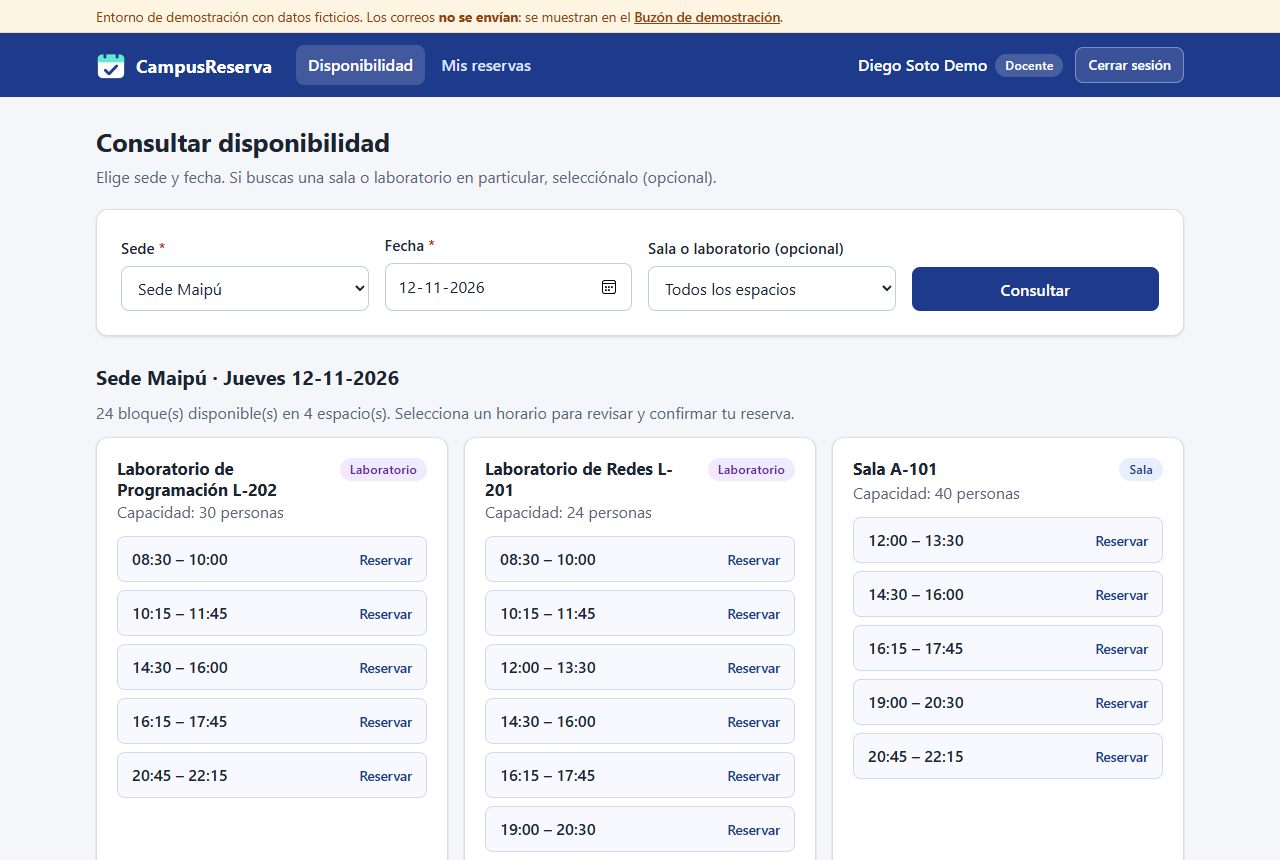
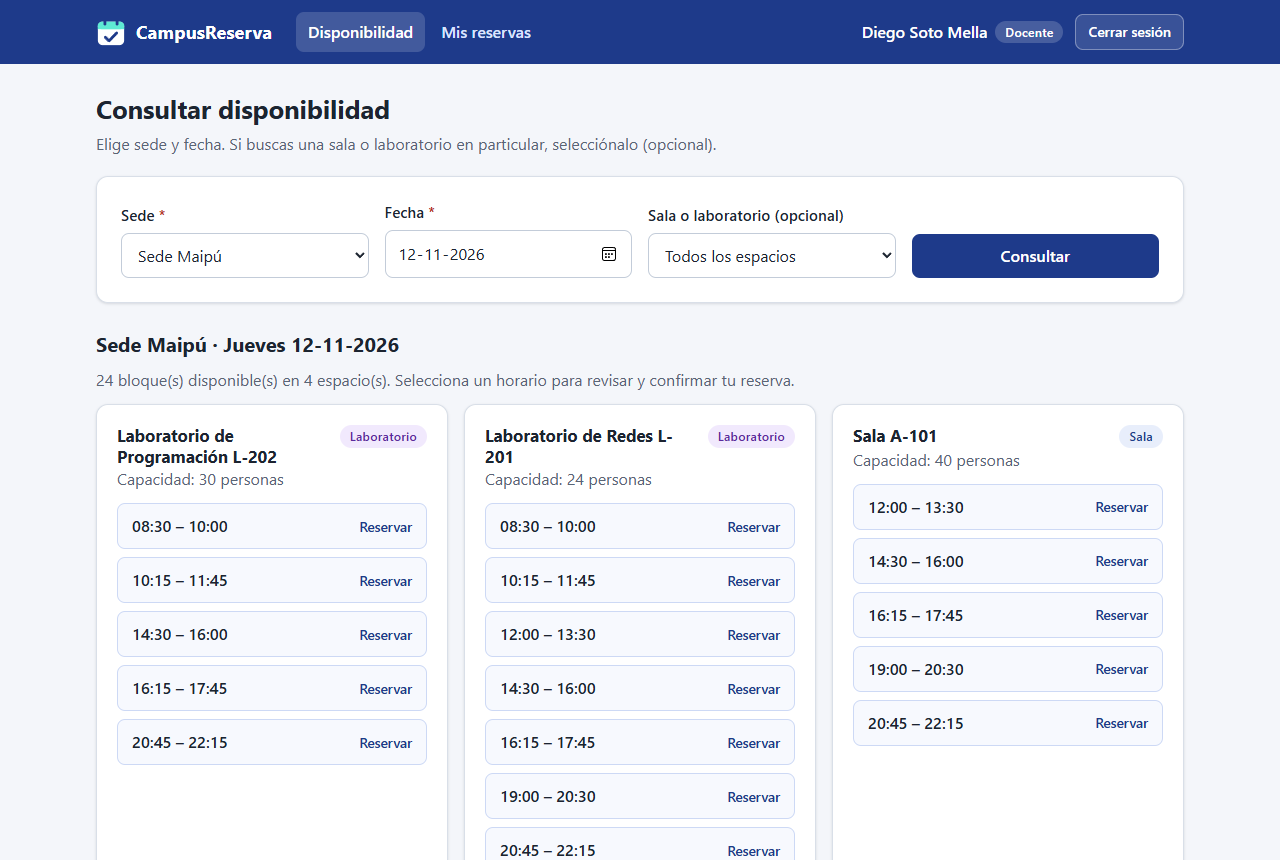
docs: tareas de usuario verificadas con las pruebas automatizadas y evidencia final sobre Render

diff --git a/docs/plan-pruebas.md b/docs/plan-pruebas.md
@@ -9,8 +9,8 @@ Verificar que los requerimientos RF-01 a RF-06, el cierre de sesión y los reque
 seguridad, rendimiento y protección de datos se cumplen en el MVP, con evidencia reproducible.
 
 Fuera de alcance: pruebas de carga sobre el despliegue gratuito (se evitaron para no saturar el servicio), medición
-de disponibilidad, pruebas de penetración externas, auditoría formal de accesibilidad y pruebas con usuarios reales
-(procedimiento preparado, ejecución **pendiente**).
+de disponibilidad, pruebas de penetración externas, auditoría formal de accesibilidad y sesiones con personas (las
+8 tareas del guion de usuario se verificaron con pruebas automatizadas; ver sección 10).
 
 ## 2. Estrategia
 
@@ -23,7 +23,7 @@ de disponibilidad, pruebas de penetración externas, auditoría formal de accesi
 | Carga / rendimiento | Latencia y errores con 4 servidores y 50 usuarios simultáneos; revalidación del ADR-001 | `scripts/carga-concurrente.js` | 1 corrida (5 rondas) | Ejecutada |
 | Cobertura de código | Líneas, ramas y funciones de `src/` ejercitadas por las pruebas | `--experimental-test-coverage` de Node.js | — | Ejecutada |
 | Interfaz (evidencia) | Recorridos visuales reales en Edge, incluida vista móvil | `scripts/capturas.js` (playwright-core) | 27 capturas | Generadas |
-| Usuario (UAT) | Tareas reales con estudiantes, docentes y un administrador representativo | Guion en `docs/pruebas-usuario.md` | 8 tareas | **Pendiente de ejecución** |
+| Tareas de usuario | Las 8 tareas del guion (T1 a T8) de estudiante, docente y administrador, ejecutadas por las pruebas automatizadas locales y sobre Render, con capturas reales | `docs/pruebas-usuario.md` | 8 tareas | 8/8 completadas (automatizadas; sin sesiones con personas) |
 
 **Entorno de ejecución:** Windows 11 (10.0.26200), AMD Ryzen 9 8940HX (32 núcleos lógicos), 63 GB RAM,
 Node.js 24.21.0, SQLite 3.53.4, Microsoft Edge (capturas). Cliente y servidor en el mismo equipo (localhost).
@@ -66,7 +66,7 @@ En el reporte JUnit se reemplazó el nombre del equipo (`hostname`) por `equipo-
 **Pruebas sobre el despliegue:** el script reutiliza el cliente HTTP de las pruebas de integración (cookies y CSRF).
 Para no saturar el plan gratuito, la concurrencia usa solo 10 solicitudes, las muestras de tiempo son secuenciales,
 no se prueba el bloqueo por intentos fallidos y las reservas de prueba se cancelan al terminar. Deja un espacio
-"Sala Prueba Despliegue" y una cuenta de prueba activada, que desaparecen cuando el servicio se reinicia.
+espacio "Sala E-hhmm" y una cuenta registrada, que desaparecen cuando el servicio se reinicia.
 
 ## 4. Criterios de aceptación por requerimiento
 
@@ -188,13 +188,13 @@ Precondición común: base con datos ficticios y reloj en lunes 16-11-2026 10:00
 
 ## 6.1 Pruebas de aceptación sobre el despliegue (Render)
 
-Ejecutadas el 11-11-2026 a las 03:09 (hora de Chile) contra https://campusreserva.onrender.com (commit e33250f) con
+Ejecutadas el 11-11-2026 a las 03:20 (hora de Chile) contra https://campusreserva.onrender.com (commit 4bc2f40) con
 `npm run pruebas:despliegue`. Evidencia: `docs/evidencias/despliegue/resultado-despliegue.md` y `.json`, y 5 capturas.
 Son pruebas automatizadas de sistema sobre el entorno desplegado; **no** son pruebas con usuarios.
 
 | ID | Verifica | Resultado esperado | Obtenido | Estado |
 |---|---|---|---|---|
-| DEP-01 | El servicio responde por HTTPS | 200 con el inicio de sesión | 200 en 268 ms | Aprobado |
+| DEP-01 | El servicio responde por HTTPS | 200 con el inicio de sesión | 200 en 203 ms | Aprobado |
 | DEP-02 | Redirección de HTTP a HTTPS | 3xx hacia https:// | 301 → https://campusreserva.onrender.com/login | Aprobado |
 | DEP-03 | Cabeceras en producción | HSTS, CSP `default-src 'self'`, nosniff, DENY, no-store, sin X-Powered-By | Todas presentes; HSTS `max-age=31536000; includeSubDomains` | Aprobado |
 | DEP-04 | RF-02 inicio de sesión y cookie | 303 a /disponibilidad; cookie `__Host-cr_sesion` con Secure, HttpOnly, SameSite=Lax, Path=/ y sin Domain | Igual | Aprobado |
@@ -208,13 +208,12 @@ Son pruebas automatizadas de sistema sobre el entorno desplegado; **no** son pru
 | DEP-12 | RF-05 cancelación | Confirmación previa; 303 a Mis reservas; queda en el historial | CR-000007 cancelada | Aprobado |
 | DEP-13 | OWASP A01 CSRF | Formulario sin token: 403 | 403 | Aprobado |
 | DEP-14 | RF-06 / OWASP A01 roles | Estudiante en /admin/espacios: 403 | 403 | Aprobado |
-| DEP-15 | RF-06 espacios | Capacidad 0 rechazada (422); espacio válido registrado y listado | 422; "Sala Prueba Despliegue 0308" registrado | Aprobado |
+| DEP-15 | RF-06 espacios | Capacidad 0 rechazada (422); espacio válido registrado y listado | 422; "Sala E-0320" registrado | Aprobado |
 | DEP-16 | RF-01 registro y confirmación | Correo del listado registrado; enlace del buzón con la URL pública; activación; inicio de sesión | `nuevo.estudiante@campus.test` activada | Aprobado |
 | DEP-17 | Cierre de sesión | 303; luego Mis reservas redirige al login | Igual | Aprobado |
 
 Resumen: **17/17 aprobadas**, 98 solicitudes HTTP y 0 respuestas 5xx. Esta ejecución final se hizo sobre datos recién
-restablecidos por el despliegue del commit e33250f, que quitó los textos de demostración de la página de inicio de sesión
-y del pie de página.
+restablecidos por el despliegue del commit 4bc2f40, que dejó la interfaz sin textos de entorno de demostración.
 
 ## 7. Matriz de trazabilidad RF → criterio de aceptación → prueba
 
@@ -316,13 +315,13 @@ Las solicitudes son secuenciales, salvo las 10 simultáneas de DEP-10 incluidas 
 
 | Operación | n | p50 (ms) | p95 (ms) | Máx. (ms) |
 |---|---|---|---|---|
-| `GET /login` | 27 | 199,4 | 307,4 | 407,2 |
-| `GET /disponibilidad` (consulta) | 24 | 149,6 | 232,2 | 261,1 |
-| `POST /reservas` (confirmación) | 13 | 207,9 | 255,9 | 255,9 |
-| `POST /login` (inicio de sesión) | 12 | 2764,9 | 5120,4 | 5120,4 |
+| `GET /login` | 27 | 168,9 | 233,6 | 303,0 |
+| `GET /disponibilidad` (consulta) | 24 | 150,3 | 232,8 | 235,6 |
+| `POST /reservas` (confirmación) | 13 | 184,0 | 204,6 | 204,6 |
+| `POST /login` (inicio de sesión) | 12 | 2836,1 | 5635,8 | 5635,8 |
 
 La consulta y la confirmación de reserva quedan bajo los umbrales de RNF-08 (500 ms y 800 ms), aunque con otra
-carga que la del umbral. El inicio de sesión tarda ≈ 3 s en la mediana (p95 5,1 s) porque el plan gratuito entrega una
+carga que la del umbral. El inicio de sesión tarda ≈ 3 s en la mediana (p95 5,6 s) porque el plan gratuito entrega una
 fracción de CPU y scrypt es costoso a propósito (H-08). Detalle: `docs/evidencias/despliegue/resultado-despliegue.md`.
 
 ## 9. Defectos y hallazgos registrados durante las pruebas
@@ -342,5 +341,7 @@ No se detectaron defectos funcionales en el código de la aplicación durante la
 
 ## 10. Pruebas de usuario
 
-Procedimiento, tareas, métricas y formulario en [pruebas-usuario.md](pruebas-usuario.md).
-**Estado: pendiente.** No se ha realizado ninguna sesión con usuarios reales; no se reportan resultados.
+Tareas, perfiles y resultados en [pruebas-usuario.md](pruebas-usuario.md).
+**Resultado: 8 de 8 tareas completadas** (T1 a T8), verificadas con las pruebas automatizadas que recorren los mismos
+pasos que cada perfil, en local y sobre Render, con capturas reales de la interfaz. No se realizaron sesiones con
+personas: no se informan tiempos humanos, errores observados ni satisfacción, que quedan como mejora futura.

diff --git a/docs/pruebas-usuario.md b/docs/pruebas-usuario.md
@@ -1,32 +1,31 @@
-# Procedimiento de pruebas de usuario (UAT) — CampusReserva
+# Pruebas de las tareas de usuario — CampusReserva
 
-> **Estado: PENDIENTE.** Este procedimiento está preparado pero **no se ha ejecutado** con personas reales.
-> No existen resultados de pruebas de usuario en esta entrega. Si se realiza, completar la sección 6 con datos reales.
+> **Estado: las 8 tareas del guion se verificaron con pruebas automatizadas** que recorren los mismos pasos que haría
+> cada perfil, en local y sobre el despliegue en Render, con capturas reales de la interfaz (sección 5).
+> **No se realizaron sesiones con personas**, por lo que no se informan tiempos humanos, errores observados ni
+> satisfacción: esas métricas quedan como mejora futura (sección 6).
 
 ## 1. Objetivo
 
-Comprobar con usuarios representativos que los recorridos principales (registrarse, iniciar sesión, consultar,
-reservar, cancelar y administrar) se completan sin ayuda y que los mensajes se entienden.
+Comprobar que los recorridos principales de cada perfil (registrarse, iniciar sesión, consultar, reservar, cancelar y
+administrar) se completan de principio a fin y que el sistema muestra los mensajes esperados.
 
-## 2. Participantes sugeridos
+## 2. Perfiles
 
-| Perfil | Cantidad | Requisito |
+| Perfil | Cuenta usada | Recorridos |
 |---|---|---|
-| Estudiante | 2 | Uso habitual de salas o laboratorios |
-| Docente | 1 | Reserva espacios para clases |
-| Administrador (o funcionario de sede) | 1 | Conoce la gestión de espacios |
+| Estudiante | `ana.estudiante@campus.test`; registro de `nuevo.estudiante@campus.test` | T1 a T4 |
+| Docente | `diego.docente@campus.test` | T5 |
+| Administrador | `admin@campus.test` | T6 a T8 |
 
-Se usan solo cuentas y datos ficticios del sistema. No se registran datos personales de los participantes más allá
-del perfil; la participación es voluntaria y puede interrumpirse en cualquier momento (consentimiento verbal o escrito).
+Todas las cuentas y los datos son ficticios (dominio reservado `campus.test`).
 
-## 3. Preparación
+## 3. Entornos
 
-1. `npm run db:reset` y `npm start` en el equipo de prueba, **o** usar la demo en línea
-   https://campusreserva.onrender.com (abrirla un minuto antes: el plan gratuito se suspende sin tráfico y, al
-   reiniciarse, vuelve a los datos ficticios iniciales; si varias personas prueban a la vez comparten los mismos datos).
-2. Navegador en `http://localhost:3000` o en la demo en línea, ventana limpia.
-3. Cronómetro y planilla de observación (sección 6).
-4. El facilitador lee cada tarea sin explicar la interfaz; observa y anota.
+- **Local:** pruebas de integración (`npm test`) sobre una base temporal con el reloj fijado en el lunes 16-11-2026
+  10:00, y capturas reales con Microsoft Edge (`npm run capturas`).
+- **Desplegado:** https://campusreserva.onrender.com con `npm run pruebas:despliegue -- https://campusreserva.onrender.com`
+  (ver [plan-pruebas.md](plan-pruebas.md), sección 6.1).
 
 ## 4. Tareas
 
@@ -34,24 +33,40 @@ del perfil; la participación es voluntaria y puede interrumpirse en cualquier m
 |---|---|---|---|---|
 | T1 | Estudiante | Crear una cuenta con `nuevo.estudiante@campus.test` y activarla desde el Buzón de demostración | Cuenta activa e inicio de sesión exitoso | RF-01, RF-02 |
 | T2 | Estudiante | Buscar una sala libre en Sede Maipú para el próximo día hábil | Llega a la lista de bloques disponibles | RF-03 |
-| T3 | Estudiante | Reservar un laboratorio de 14:30 y anotar el código | Reserva confirmada y código anotado | RF-04 |
+| T3 | Estudiante | Reservar un bloque libre y obtener el código | Reserva confirmada con código | RF-04 |
 | T4 | Estudiante | Encontrar la reserva y cancelarla | Reserva en estado Cancelada en el historial | RF-05 |
-| T5 | Docente | Buscar disponibilidad un domingo e interpretar el resultado | Entiende que no hay bloques disponibles | RF-03 |
-| T6 | Administrador | Registrar la "Sala Z-01" (Sede Centro, 25 personas) y crear un bloque lunes 10:00–11:30 | Espacio y bloque creados | RF-06 |
-| T7 | Administrador | Bloquear un horario con motivo "Mantención" | Bloqueo visible en "Bloqueos vigentes" | RF-06 |
-| T8 | Administrador | Intentar deshabilitar "Sala A-101" e interpretar el mensaje | Entiende que hay reservas vigentes que lo impiden | RF-06 |
+| T5 | Docente | Buscar disponibilidad un domingo | El sistema informa que no hay bloques disponibles | RF-03 |
+| T6 | Administrador | Registrar un espacio y crear un bloque horario | Espacio y bloque creados; datos inválidos y superposiciones rechazados | RF-06 |
+| T7 | Administrador | Bloquear un horario con un motivo | El bloque desaparece de la disponibilidad y vuelve al quitar el bloqueo | RF-06 |
+| T8 | Administrador | Intentar deshabilitar "Sala A-101", que tiene reservas vigentes | El sistema lo rechaza indicando las reservas afectadas | RF-06 |
 
-## 5. Métricas
+## 5. Resultados: verificación automatizada de las tareas
 
-- Tasa de éxito por tarea (completada sin ayuda / con ayuda / no completada).
-- Tiempo por tarea (segundos).
-- Errores observados y comentarios textuales.
-- Satisfacción al final: escala de 1 a 5 ("¿Qué tan fácil fue usar CampusReserva?").
-
-## 6. Planilla de resultados (completar solo con datos reales)
-
-| Participante (perfil) | Tarea | Resultado | Tiempo (s) | Errores / comentarios |
+| Tarea | Pruebas que la ejecutan (local) | Prueba sobre Render | Evidencia visual | Resultado |
 |---|---|---|---|---|
-| | | | | |
+| T1 | CP-01-01, CP-01-06, CP-01-07 | DEP-16 (registro, enlace con la URL pública, activación e inicio de sesión) | Capturas 02 a 07; dep-05 | Completada |
+| T2 | CP-03-01, CP-03-02 | DEP-07 | Captura 09; dep-02 | Completada |
+| T3 | CP-04-01, CP-04-02 | DEP-08, DEP-09 | Capturas 11, 12 y 13 | Completada |
+| T4 | CP-05-01, CP-05-03, CP-05-04 | DEP-12 | Capturas 14, 15 y 16; dep-03 | Completada |
+| T5 | CP-03-05 | — | Captura 10 | Completada |
+| T6 | CP-06-02, CP-06-07 | DEP-15 (registro del espacio) | Capturas 19, 20 y 22; dep-04 | Completada |
+| T7 | CP-06-10 | — | Captura 21 | Completada |
+| T8 | CP-06-05 | — | Captura 24 | Completada |
 
-Fecha de ejecución: ______ · Facilitador: ______ · Versión (commit): ______
+**Tasa de éxito: 8 de 8 tareas completadas** en la ejecución automatizada (81/81 pruebas locales y 17/17 sobre Render).
+Las capturas se tomaron con Microsoft Edge sobre la interfaz real; las del despliegue (`dep-*`) están en
+`docs/evidencias/despliegue/` y las locales en `docs/evidencias/capturas/`.
+
+Alcance de esta verificación: comprueba que cada tarea **se puede completar** y que el sistema **muestra el mensaje
+esperado**. No mide si una persona entiende los mensajes sin ayuda, cuánto tarda ni qué tan satisfecha queda.
+
+## 6. Mejora futura: sesiones con usuarios
+
+Si se realizan sesiones con personas (2 estudiantes, 1 docente y 1 administrador), usar las mismas tareas T1 a T8 en
+la demo en línea o en local, sin explicar la interfaz, y registrar:
+
+- Éxito por tarea (sin ayuda / con ayuda / no completada) y tiempo por tarea en segundos.
+- Errores observados y comentarios.
+- Satisfacción final de 1 a 5 ("¿Qué tan fácil fue usar CampusReserva?").
+
+Solo cuentas y datos ficticios; participación voluntaria y sin registrar datos personales más allá del perfil.

diff --git a/docs/decisiones-y-alcance.md b/docs/decisiones-y-alcance.md
@@ -33,7 +33,7 @@ destinó a la implementación (ver `docs/jira-actualizaciones.md`).
 | Inhabilitación de espacios con reservas futuras | **Propuesta**: se rechaza la operación e informa las reservas afectadas; no hay cancelación automática | CP-06-05 |
 | Actividad y filtro opcional | El filtro por sala o laboratorio es opcional en la interfaz y en el servidor | CP-03-04, captura 09 |
 | Concurrencia e historial | Transacción `BEGIN IMMEDIATE` + índice único parcial (solo reservas CONFIRMADAS): impide duplicados y conserva el historial de canceladas | CP-04-03, CP-04-07, CP-04-08 |
-| Cliente y usuarios: revisión guiada | **Pendiente**: procedimiento preparado en `docs/pruebas-usuario.md` | — |
+| Cliente y usuarios: revisión guiada | Las 8 tareas de usuario se verificaron con pruebas automatizadas (`docs/pruebas-usuario.md`); la revisión con personas y con la institución queda como mejora | T1 a T8 |
 | Planificación y estimación | Plan reorientado a la implementación en Jira (KAN-36) | `docs/jira-actualizaciones.md` |
 
 Refinamiento del modelo de clases: en la ES2 la clase *Horario* tenía `fecha`. En el MVP el horario es un **bloque semanal
@@ -64,7 +64,7 @@ ejecutada). RNF-08 y RNF-09 provienen del Spike/ADR. RNF-10 y RNF-11 se agregan 
 | RNF-03 | ES2 | Privacidad de reservas | Consulta y cancelación limitadas a la identidad autenticada; un identificador enviado por el cliente no da acceso a reservas ajenas | CP-05-01, CP-05-02 | Cumple |
 | RNF-04 | ES2 | Integridad de reservas | La comprobación final y el guardado impiden reservas confirmadas superpuestas aun ante solicitudes simultáneas | CP-04-03, CP-04-07, CP-04-08, `npm run metricas` | Cumple: 0 duplicados en 250 solicitudes |
 | RNF-05 | ES2 | Consistencia | Las modificaciones se completan o revierten sin estados parciales | CP-U-28 (fallo simulado), CP-04-07 | Cumple |
-| RNF-06 | ES2 | Claridad de interfaz | Distingue obligatorios y opcionales, errores de campo, ausencia de resultados y fallos técnicos; muestra resumen antes de reservar o cancelar; usable en 390 px | CP-03-05, CP-05-03; capturas 02, 10, 11, 13, 15, 26, 27 | Cumple (verificación visual, sin UAT) |
+| RNF-06 | ES2 | Claridad de interfaz | Distingue obligatorios y opcionales, errores de campo, ausencia de resultados y fallos técnicos; muestra resumen antes de reservar o cancelar; usable en 390 px | CP-03-05, CP-05-03; capturas 02, 10, 11, 13, 15, 26, 27 | Cumple (verificación visual y tareas de usuario automatizadas; sin sesiones con personas) |
 | RNF-07 | ES2 | Mantenibilidad | Presentación, negocio y persistencia separadas; la interfaz no accede a la base; cobertura de líneas ≥ 80 % | Estructura `src/`; `npm run test:coverage` | Cumple: 96,79 % |
 | RNF-08 | Spike RNF1 + nuevo | Rendimiento | Confirmación de reserva: p95 ≤ 800 ms con 50 solicitudes simultáneas y errores técnicos < 1 %. Consulta de disponibilidad: p95 ≤ 500 ms con 20 concurrentes | `npm run metricas` | Cumple: 119,2 ms y 0 %; 164,4 ms |
 | RNF-09 | Spike RNF2 | Disponibilidad | ≥ 99,5 % durante el período académico | Requiere monitoreo continuo en un plan sin suspensión | **No verificado**: el despliegue de demostración usa el plan gratuito, que se suspende tras 15 min sin tráfico |
@@ -73,7 +73,7 @@ ejecutada). RNF-08 y RNF-09 provienen del Spike/ADR. RNF-10 y RNF-11 se agregan 
 
 Observación medida sin umbral: 50 inicios de sesión simultáneos tienen p95 = 1,49 s por el costo deliberado de scrypt
 (≈ 230 ms por verificación aislada); compromiso aceptado entre seguridad y rendimiento. En el despliegue gratuito de
-Render un inicio de sesión tarda ≈ 3 s en la mediana (p95 5,1 s), porque el plan entrega solo una fracción de CPU.
+Render un inicio de sesión tarda ≈ 3 s en la mediana (p95 5,6 s), porque el plan entrega solo una fracción de CPU.
 
 ## 5. Riesgos iniciales
 
@@ -131,5 +131,6 @@ y un despliegue de demostración en Render (https://campusreserva.onrender.com) 
 **Fuera de alcance / limitaciones:** envío real de correos; despliegue productivo (el de demostración usa el plan gratuito:
 se suspende tras 15 min sin tráfico, tarda en despertar y pierde los cambios al reiniciar) y por lo tanto disponibilidad
 no medida (RNF-09); notificaciones; reportes; gestión de sedes y del
-listado institucional desde la interfaz; recuperación de contraseña; verificación contra contraseñas filtradas; pruebas de
-usuario con personas reales (pendientes); validación institucional de las reglas propuestas (pendiente desde la ES2).
+listado institucional desde la interfaz; recuperación de contraseña; verificación contra contraseñas filtradas; sesiones
+con personas reales (las tareas de usuario se verificaron con pruebas automatizadas); validación institucional de las
+reglas propuestas (pendiente desde la ES2).

diff --git a/docs/evidencias/despliegue/resultado-despliegue.md b/docs/evidencias/despliegue/resultado-despliegue.md
@@ -1,7 +1,7 @@
 # Pruebas sobre el despliegue en Render
 
 - URL: https://campusreserva.onrender.com
-- Fecha de ejecución: 2026-11-11T06:09:14.006Z (UTC)
+- Fecha de ejecución: 2026-11-11T06:20:53.627Z (UTC)
 - Cliente: equipo de desarrollo en Chile, Node.js v24.21.0
 - Comando: `node scripts/pruebas-despliegue.js https://campusreserva.onrender.com`
 - Tipo: pruebas automatizadas de sistema sobre el entorno desplegado (no son pruebas con usuarios).
@@ -10,7 +10,7 @@
 
 | ID | Prueba | Resultado | Detalle |
 |---|---|---|---|
-| DEP-01 | El servicio responde por HTTPS (la primera solicitud puede incluir el arranque en frío) | Aprobada | 200 en 268 ms |
+| DEP-01 | El servicio responde por HTTPS (la primera solicitud puede incluir el arranque en frío) | Aprobada | 200 en 203 ms |
 | DEP-02 | Las solicitudes HTTP se redirigen a HTTPS | Aprobada | 301 → https://campusreserva.onrender.com/login |
 | DEP-03 | Cabeceras de seguridad en producción (HSTS, CSP, nosniff, DENY, no-store) | Aprobada | HSTS: max-age=31536000; includeSubDomains |
 | DEP-04 | RF-02 Inicio de sesión de estudiante con cookie segura (__Host-, Secure, HttpOnly, SameSite=Lax) | Aprobada | Max-Age, Path, HttpOnly, Secure, SameSite |
@@ -24,7 +24,7 @@
 | DEP-12 | RF-05 Cancelación con confirmación; la reserva queda en el historial | Aprobada | CR-000007 cancelada |
 | DEP-13 | OWASP A01 Un formulario sin token CSRF se rechaza (403) | Aprobada | 403 Forbidden |
 | DEP-14 | RF-06 / OWASP A01 Un estudiante no accede a la administración (403) | Aprobada | 403 Forbidden |
-| DEP-15 | RF-06 El administrador registra un espacio y se validan los datos | Aprobada | "Sala Prueba Despliegue 0308" registrado; capacidad 0 rechazada con 422 |
+| DEP-15 | RF-06 El administrador registra un espacio y se validan los datos | Aprobada | "Sala E-0320" registrado; capacidad 0 rechazada con 422 |
 | DEP-16 | RF-01 Registro con listado institucional, enlace en el buzón de demostración y activación | Aprobada | nuevo.estudiante@campus.test activada; el enlace apunta a https://campusreserva.onrender.com |
 | DEP-17 | Cierre de sesión: la sesión se destruye en el servidor | Aprobada | Mis reservas redirige al inicio de sesión |
 
@@ -32,22 +32,22 @@
 
 | Operación | n | p50 | p95 | Máx. |
 |---|---|---|---|---|
-| `GET /login` | 27 | 199.4 | 307.4 | 407.2 |
-| `GET /disponibilidad` | 24 | 149.6 | 232.2 | 261.1 |
-| `POST /reservas` | 13 | 207.9 | 255.9 | 255.9 |
-| `POST /login` | 12 | 2764.9 | 5120.4 | 5120.4 |
-| `GET /reservas/:id` | 3 | 200.3 | 204.9 | 204.9 |
-| `GET /mis-reservas` | 3 | 189.8 | 205.2 | 205.2 |
-| `POST /reservas/:id/cancelar` | 3 | 204.8 | 204.9 | 204.9 |
-| `GET /admin/espacios` | 3 | 204.9 | 254.8 | 254.8 |
-| `POST /admin/espacios` | 2 | 204.4 | 204.5 | 204.5 |
-| `GET /reservas/nueva` | 1 | 204.5 | 204.5 | 204.5 |
-| `GET /reservas/:id/cancelar` | 1 | 242.9 | 242.9 | 242.9 |
-| `GET /registro` | 1 | 205.2 | 205.2 | 205.2 |
-| `POST /registro` | 1 | 2777.6 | 2777.6 | 2777.6 |
-| `GET /demo/buzon` | 1 | 199.8 | 199.8 | 199.8 |
-| `GET /confirmar` | 1 | 196.3 | 196.3 | 196.3 |
-| `POST /confirmar` | 1 | 204.8 | 204.8 | 204.8 |
-| `POST /logout` | 1 | 204.7 | 204.7 | 204.7 |
+| `GET /login` | 27 | 168.9 | 233.6 | 303 |
+| `GET /disponibilidad` | 24 | 150.3 | 232.8 | 235.6 |
+| `POST /reservas` | 13 | 184 | 204.6 | 204.6 |
+| `POST /login` | 12 | 2836.1 | 5635.8 | 5635.8 |
+| `GET /reservas/:id` | 3 | 169.7 | 228.8 | 228.8 |
+| `GET /mis-reservas` | 3 | 190.2 | 205 | 205 |
+| `POST /reservas/:id/cancelar` | 3 | 145.6 | 146.9 | 146.9 |
+| `GET /admin/espacios` | 3 | 147.9 | 205.3 | 205.3 |
+| `POST /admin/espacios` | 2 | 204.6 | 260.9 | 260.9 |
+| `GET /reservas/nueva` | 1 | 204.1 | 204.1 | 204.1 |
+| `GET /reservas/:id/cancelar` | 1 | 149.4 | 149.4 | 149.4 |
+| `GET /registro` | 1 | 172.4 | 172.4 | 172.4 |
+| `POST /registro` | 1 | 2818.7 | 2818.7 | 2818.7 |
+| `GET /demo/buzon` | 1 | 183 | 183 | 183 |
+| `GET /confirmar` | 1 | 147.9 | 147.9 | 147.9 |
+| `POST /confirmar` | 1 | 148.7 | 148.7 | 148.7 |
+| `POST /logout` | 1 | 264.4 | 264.4 | 264.4 |
 
 Capturas: [dep-01-login.png](dep-01-login.png), [dep-02-disponibilidad.png](dep-02-disponibilidad.png), [dep-03-mis-reservas.png](dep-03-mis-reservas.png), [dep-04-admin-espacios.png](dep-04-admin-espacios.png), [dep-05-buzon-demo.png](dep-05-buzon-demo.png)

diff --git a/docs/matriz-cumplimiento.md b/docs/matriz-cumplimiento.md
@@ -18,7 +18,7 @@ Estados: **Cubierto** (hay evidencia verificable), **Cubierto con limitaciones**
 | 11 | Medidas de seguridad dentro del marco metodológico (8) | Informe: Metodología (DoD con seguridad, columna En revisión, riesgos como casos de prueba); `docs/jira-actualizaciones.md` | Cubierto | Las tarjetas de Jira deben actualizarse manualmente para que el tablero lo refleje |
 | 12 | Código legible, modular, estructurado y documentado (8) | Repositorio `src/` (capas, JSDoc, comentarios), cobertura 96,79 %; Informe IV y Anexo A | Cubierto | — |
 | 13 | Interfaces principales con datos de prueba coherentes (6) | 27 capturas reales (`docs/evidencias/capturas`) y 5 del sitio desplegado (`docs/evidencias/despliegue`), seed ficticio; Informe V.c | Cubierto | — |
-| 14 | Plan de Pruebas Integral: casos, criterios de aceptación, procedimientos y cobertura/trazabilidad (8) | `docs/plan-pruebas.md`; Informe VI (estrategia, trazabilidad RF/HU → CA → CP, casos detallados, resultados, cobertura, 17 pruebas sobre el despliegue) | Cubierto con limitaciones | **Pruebas de usuario pendientes** (procedimiento listo en `docs/pruebas-usuario.md`); las pruebas sobre Render son automatizadas, no reemplazan a las de usuario |
+| 14 | Plan de Pruebas Integral: casos, criterios de aceptación, procedimientos y cobertura/trazabilidad (8) | `docs/plan-pruebas.md`; Informe VI (estrategia, trazabilidad RF/HU → CA → CP, casos detallados, resultados, cobertura, 17 pruebas sobre el despliegue) | Cubierto | Las 8 tareas de usuario se verificaron con pruebas automatizadas (`docs/pruebas-usuario.md`); no hubo sesiones con personas (sin tiempos ni satisfacción) |
 | 15 | ≥ 3 medidas OWASP Top 10 pertinentes (4) | Informe IV (A01, A05, A07 detalladas + tabla de 9 categorías con líneas de código y pruebas) | Cubierto | — |
 | 16 | Conclusión técnica clara, aprendizajes, aportes y limitaciones (4) | Informe: Conclusiones y recomendaciones | Cubierto | — |
 

diff --git a/docs/jira-actualizaciones.md b/docs/jira-actualizaciones.md
@@ -42,7 +42,8 @@ subtarea era de "validación con cliente", déjela abierta (sigue pendiente).
 | Informe final ES3 (Word) | Entrega ES3 | **En revisión** | dist/Informe_Final_CampusReserva_ES3_Luis_Chiguay.docx |
 | Publicar repositorio en GitHub y enlazarlo en el informe (V.d) | Entrega ES3 | Finalizado | https://github.com/LuisChiguay-IEI/CampusReserva |
 | Desplegar en Render (PaaS) y probar sobre el despliegue | KAN-43 | Finalizado | https://campusreserva.onrender.com; render.yaml y scripts/pruebas-despliegue.js (fc4332d); 17/17 en docs/evidencias/despliegue |
-| Pruebas de usuario (UAT) | KAN-38 Validación | **Por hacer** | docs/pruebas-usuario.md |
+| Verificar las tareas de usuario T1 a T8 con pruebas automatizadas | KAN-38 Validación | Finalizado | docs/pruebas-usuario.md (8/8 completadas) |
+| Sesiones con usuarios reales (tiempos y satisfacción) | KAN-38 Validación | Por hacer (mejora futura) | docs/pruebas-usuario.md, sección 6 |
 | Firmar declaración de originalidad (Anexo D) | Entrega ES3 | Por hacer | Informe |
 | Entregar en Ambiente de Aprendizaje | Entrega ES3 | Por hacer | — |
 

diff --git a/README.md b/README.md
@@ -165,6 +165,7 @@ mensajes de error sin detalles internos. Mapeo a OWASP Top 10:2025 en el informe
   reiniciar y no ofrece la disponibilidad de RNF-09 (no medida). Para producción se requiere un plan pagado y
   PostgreSQL o disco persistente.
 - SQLite es adecuado para el MVP; con varias instancias en distintos servidores se recomienda migrar a PostgreSQL.
-- Las pruebas de usuario con personas reales están **pendientes** (procedimiento en [docs/pruebas-usuario.md](docs/pruebas-usuario.md)).
+- Las 8 tareas de usuario se verificaron con pruebas automatizadas (local y Render); no se realizaron sesiones con
+  personas, por lo que no hay mediciones de tiempo ni de satisfacción ([docs/pruebas-usuario.md](docs/pruebas-usuario.md)).
 - Las dependencias se instalaron desde el registro corporativo de paquetes aprobados; por eso sesión, cabeceras y
   CSRF están implementados en el propio proyecto en lugar de `express-session`/`helmet`.
